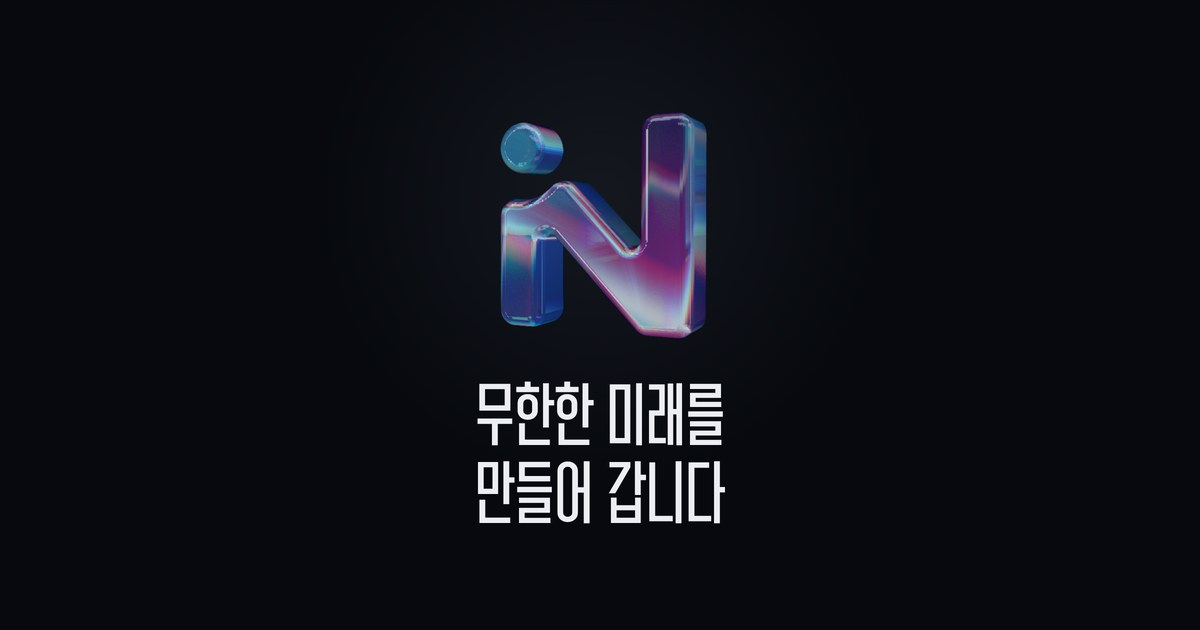
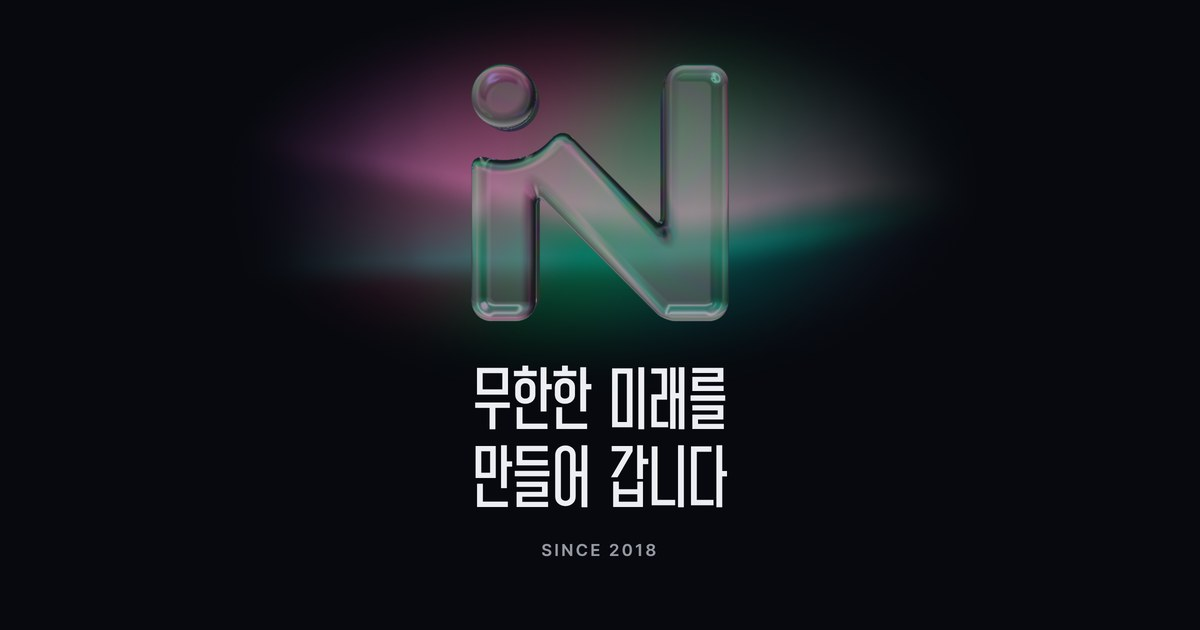
feat: share previews that match the current site
- New opengraph/twitter image rendered from the live hero: the glass iN
  at rest over the aurora, the slogan and SINCE 2018; alt text updated
- Each page shares its own title, description, canonical URL and image
  through pageMetadata(); before, subpages inherited the home page's
  Open Graph title and description
- Site description and keywords mention Aztra as Korea's first
  dashboard-style Discord moderation bot and drop the ended 2¹²
- About, projects, brand and privacy descriptions rewritten for what the
  pages now say

Changed region(s): [[0.2467, 0.0603, 0.7708, 0.5429], [0.37, 0.573, 0.6167, 0.9048]]

diff --git a/src/lib/metadata.ts b/src/lib/metadata.ts
@@ -1,0 +1,49 @@
+import type { Metadata } from 'next';
+import { site } from '@/data/site';
+
+/** 공유 미리보기에 공통으로 들어가는 값 */
+export const sharedOpenGraph = {
+  type: 'website',
+  locale: 'ko_KR',
+  siteName: site.name,
+} as const;
+
+/*
+ * app/opengraph-image.jpg, app/twitter-image.jpg. 페이지가 openGraph를 덮어쓰면
+ * 파일로 둔 이미지도 함께 빠지므로 하위 페이지에는 직접 적어 줍니다.
+ */
+const shareImage = {
+  width: 1200,
+  height: 630,
+  alt: '어두운 바탕의 오로라 앞에 떠 있는 유리 iN 심볼과, 그 아래 슬로건 무한한 미래를 만들어 갑니다, SINCE 2018',
+};
+
+/**
+ * 하위 페이지 메타데이터. Next는 openGraph와 twitter를 통째로 덮어쓰거나 그대로 물려주므로,
+ * 페이지 제목과 설명이 공유 미리보기에도 나오도록 함께 채웁니다.
+ */
+export function pageMetadata(
+  title: string,
+  description: string,
+  path: string
+): Metadata {
+  const full = `${title} | ${site.name}`;
+  return {
+    title,
+    description,
+    alternates: { canonical: path },
+    openGraph: {
+      ...sharedOpenGraph,
+      title: full,
+      description,
+      url: path,
+      images: [{ url: '/opengraph-image.jpg', ...shareImage }],
+    },
+    twitter: {
+      card: 'summary_large_image',
+      title: full,
+      description,
+      images: [{ url: '/twitter-image.jpg', ...shareImage }],
+    },
+  };
+}

diff --git a/src/app/projects/page.tsx b/src/app/projects/page.tsx
@@ -1,4 +1,5 @@
 import type { Metadata } from 'next';
+import { pageMetadata } from '@/lib/metadata';
 import Image from 'next/image';
 import projects, { archive, statusLabel, type Project } from '@/data/projects';
 import { findMembers } from '@/data/members';
@@ -10,11 +11,11 @@ import ProjectAura from '@/components/ui/ProjectAura';
 import SectionHeader from '@/components/ui/SectionHeader';
 import styles from './page.module.scss';
 
-export const metadata: Metadata = {
-  title: '프로젝트',
-  description:
-    'Aztra, Idle Factory, 2¹², Azalea. Infinite Studio가 만들고 운영하는 디스코드 봇과 게임입니다.',
-};
+export const metadata: Metadata = pageMetadata(
+  '프로젝트',
+  '한국 최초의 대시보드형 디스코드 관리봇 Aztra와 방치형 게임 Idle Factory를 비롯해, Infinite Studio가 만들어 온 디스코드 봇과 게임입니다.',
+  '/projects'
+);
 
 function Facts({ project }: { project: Project }) {
   return (

diff --git a/src/app/about/page.tsx b/src/app/about/page.tsx
@@ -1,4 +1,5 @@
 import type { Metadata } from 'next';
+import { pageMetadata } from '@/lib/metadata';
 import members from '@/data/members';
 import history, { groupByYear } from '@/data/history';
 import MemberCard from '@/components/about/MemberCard';
@@ -6,11 +7,11 @@ import PageHeader from '@/components/ui/PageHeader';
 import SectionHeader from '@/components/ui/SectionHeader';
 import styles from './page.module.scss';
 
-export const metadata: Metadata = {
-  title: '소개',
-  description:
-    'Infinite Studio는 2018년 청소년 엔트리 개발팀으로 시작해 디스코드 봇과 게임을 만드는 팀입니다.',
-};
+export const metadata: Metadata = pageMetadata(
+  '소개',
+  '디스코드 봇을 만들고 직접 운영하는 Infinite Studio의 팀원과, 2018년 엔트리에서 시작해 걸어온 발자취입니다.',
+  '/about'
+);
 
 const practices = [
   {

diff --git a/src/app/layout.tsx b/src/app/layout.tsx
@@ -8,6 +8,7 @@ import Footer from '@/components/site/Footer';
 import Reveal from '@/components/site/Reveal';
 import { REVEAL_SCRIPT } from '@/components/site/revealScript';
 import { site } from '@/data/site';
+import { sharedOpenGraph } from '@/lib/metadata';
 
 const beanpole = localFont({
   src: '../fonts/Beanpole-M00.woff',
@@ -37,15 +38,15 @@ export const metadata: Metadata = {
     'Infinite Studio',
     '인피니트 스튜디오',
     '디스코드 봇',
+    '디스코드 관리봇',
     'Aztra',
+    '아즈트라',
     'Idle Factory',
-    '2¹²',
   ],
+  alternates: { canonical: '/' },
   openGraph: {
-    type: 'website',
-    locale: 'ko_KR',
-    url: site.url,
-    siteName: site.name,
+    ...sharedOpenGraph,
+    url: '/',
     title: `${site.slogan} | ${site.name}`,
     description: site.description,
   },

diff --git a/src/app/brand/page.tsx b/src/app/brand/page.tsx
@@ -1,14 +1,16 @@
 import type { Metadata } from 'next';
+import { pageMetadata } from '@/lib/metadata';
 import Construction from '@/components/brand/Construction';
 import CopyButton from '@/components/ui/CopyButton';
 import PageHeader from '@/components/ui/PageHeader';
 import SectionHeader from '@/components/ui/SectionHeader';
 import styles from './page.module.scss';
 
-export const metadata: Metadata = {
-  title: '브랜드',
-  description: 'Infinite Studio의 심볼과 컬러, 사용 규정을 안내합니다.',
-};
+export const metadata: Metadata = pageMetadata(
+  '브랜드',
+  'Infinite Studio 심볼의 구성과 브랜드 컬러, 사용 규정을 안내합니다.',
+  '/brand'
+);
 
 const variants = [
   { file: 'Logo_NG', label: '네이비 위 민트' },

diff --git a/src/app/privacy/page.tsx b/src/app/privacy/page.tsx
@@ -1,14 +1,16 @@
 import fs from 'node:fs/promises';
 import path from 'node:path';
 import type { Metadata } from 'next';
+import { pageMetadata } from '@/lib/metadata';
 import ReactMarkdown from 'react-markdown';
 import PageHeader from '@/components/ui/PageHeader';
 import styles from './page.module.scss';
 
-export const metadata: Metadata = {
-  title: '개인정보 처리방침',
-  description: 'Infinite Studio 개인정보 처리방침',
-};
+export const metadata: Metadata = pageMetadata(
+  '개인정보 처리방침',
+  'Infinite Studio가 서비스를 운영하며 개인정보를 어떻게 수집하고 이용하는지 안내합니다.',
+  '/privacy'
+);
 
 const slug = (text: string) => `section-${text.split('.')[0].trim()}`;
 

diff --git a/src/data/site.ts b/src/data/site.ts
@@ -4,7 +4,7 @@ export const site = {
   url: 'https://inft.kr',
   slogan: '무한한 미래를 만들어 갑니다',
   description:
-    'Infinite Studio는 2018년부터 디스코드 봇과 게임을 만들어 온 개발팀입니다.',
+    'Infinite Studio는 2018년부터 디스코드 봇과 게임을 만들어 온 개발팀입니다. 한국 최초의 대시보드형 디스코드 관리봇 Aztra를 만들고 운영합니다.',
   founded: { year: 2018, month: 8 },
   links: {
     discord: 'https://discord.gg/7aFczQk',

diff --git a/docs/DESIGN.md b/docs/DESIGN.md
@@ -49,6 +49,11 @@ v2는 [Hallmark](https://github.com/Nutlope/hallmark)의 규칙(Floor, gates)을
 - 카드마다 그 프로젝트 아이콘을 크게 흐린 빛이 한쪽에 고입니다.
 - 그 위에 은은한 격자를 깝니다. 한 칸이 아이콘 크기라 아이콘이 격자 한 칸에 꼭 들어앉고, 아이콘 자리에서 멀어질수록 옅어집니다(`.icon-grid`, 카드마다 `--grid-cell`, `--grid-pos`, `--grid-focus`).
 
+## 공유 미리보기
+
+- `src/app/opengraph-image.jpg`, `twitter-image.jpg`(1200 × 630)는 실제 히어로를 그대로 찍은 것입니다. 모션 줄이기 상태로 열면 유리 로고가 iN에 정면으로 멈추고 오로라도 멈추므로, 그 화면에서 내비게이션과 버튼만 가리고 2배로 찍어 줄였습니다.
+- 하위 페이지는 `src/lib/metadata.ts`의 `pageMetadata(제목, 설명, 경로)`로 공유 제목, 설명, 주소, 이미지를 함께 채웁니다. Next는 레이아웃의 openGraph를 통째로 물려주거나 덮어쓰기 때문에, 이렇게 하지 않으면 하위 페이지를 공유해도 홈의 제목과 설명이 나옵니다.
+
 ## 나타나는 움직임
 
 - 페이지를 옮기거나 스크롤해서 블록(섹션 제목, 카드, 목록 줄)이 화면에 들어오면 위에서 16px 내려오며 0.76초 동안 나타납니다. 한 번에 들어온 것들은 70ms씩 차례로.
